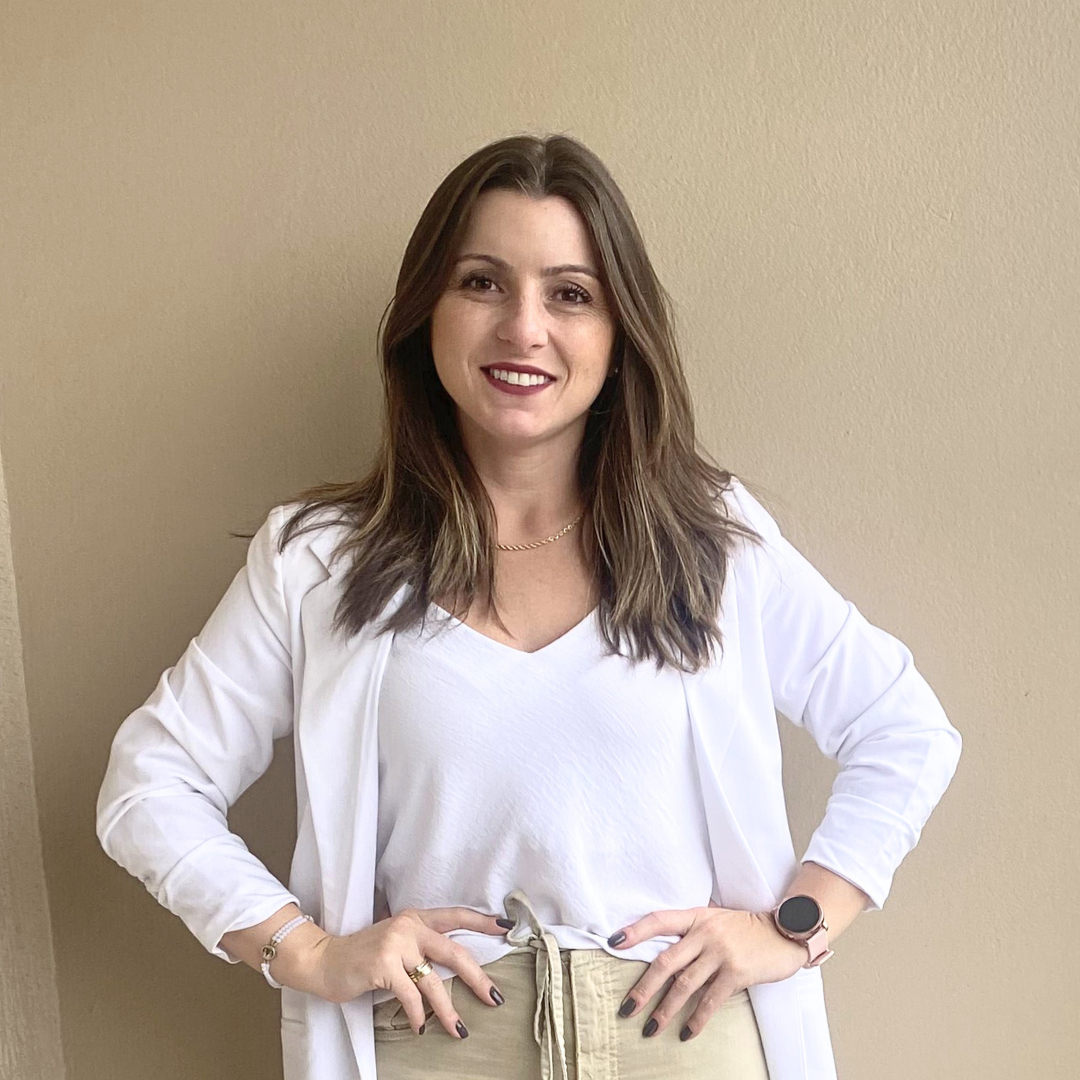
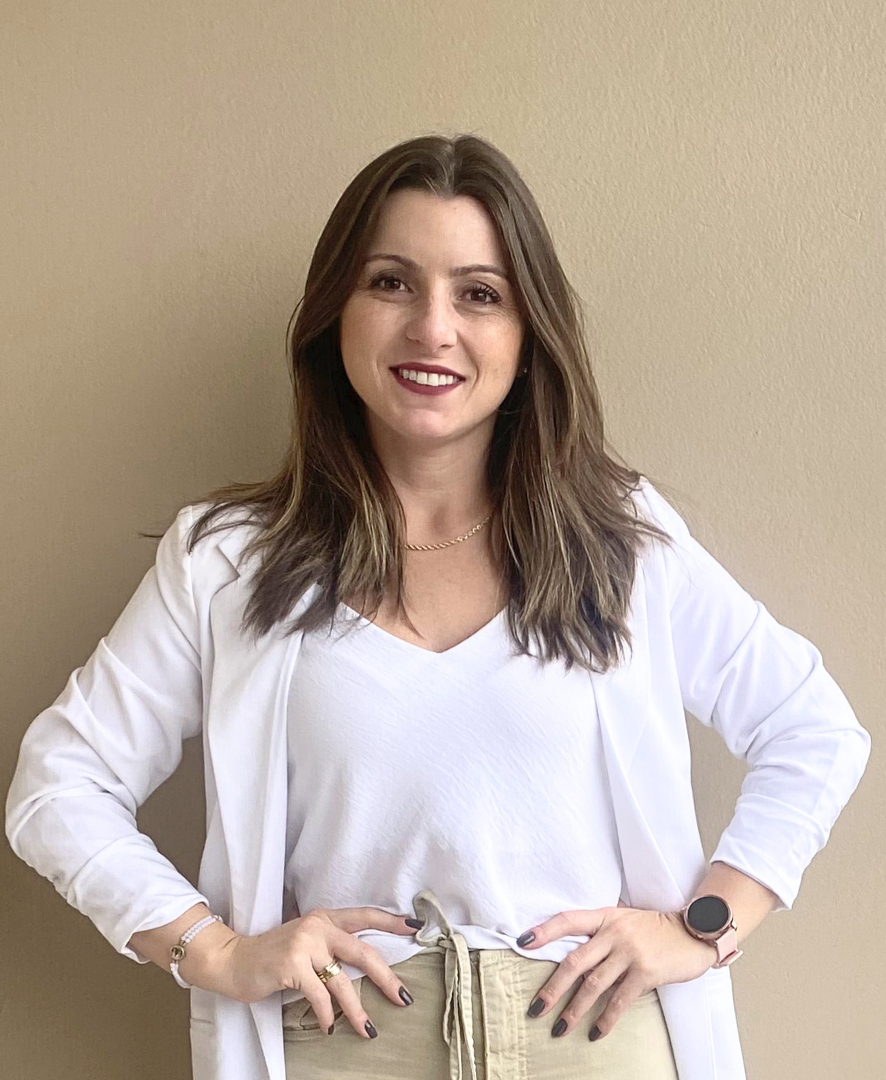
perfil igor - ajuste fotos

diff --git a/quemsomos.php b/quemsomos.php
@@ -53,8 +53,8 @@
             box-shadow: 10px 4px 10px rgba(0, 0, 0, 0.1);
         }
         .img-perfil {
-        width: 300px;
-        height: 300px;
+        width: 220px;
+        height: 250px;
         border-radius: 15px;
         }
         .menu-icon {
@@ -194,19 +194,20 @@
                             <a href="https://www.linkedin.com/in/maria-antônia-dos-santos"target="_blank"rel="noopener">Linkedin</a>
                     </div>
                     <div class="equipe">
+                        <h2 class="texto">Desenvolvedor</h2>
+                        <img src="igor.jpeg" alt="Foto de Perfil" class="img-perfil" >
+                        <h2>Igor Miguel Raimundo</h2>
+                        <a href="mailto: igor.raimundo@aluno.fmpsc.edu.br"target="_blank">E-mail</a><br/>
+                        <a href=" https://www.linkedin.com/in/igor-miguel-raimundo-27b964286/"target="_blank"rel="noopener">Linkedin</a>
+                    </div>
+                    <div class="equipe">
                         <h2 class="texto">Desenvolvedora</h2>
                         <img src="rithiely.jpeg" alt="Foto de Perfil" class="img-perfil" >
                         <h2>Rithiely Schmitt</h2>
                         <a href="mailto: rithiely_ph@hotmail.com"target="_blank">E-mail</a><br/>
                         <a href="https://br.linkedin.com/in/rithiély-schmitt-100b92326/"target="_blank"rel="noopener">Linkedin</a>
                     </div>
-                    <div class="equipe">
-                        <h2 class="texto">Desenvolvedor</h2>
-                        <img src="ri.png" alt="Foto de Perfil" class="img-perfil" >
-                        <h2>Igor Miguel Raimundo</h2>
-                        <a href="mailto: ri@gmail.com"target="_blank">E-mail</a><br/>
-                        <a href="https://br.linkedin.com/in//"target="_blank"rel="noopener">Linkedin</a>
-                    </div>
+         
              </div>
              </div>
            </div>
